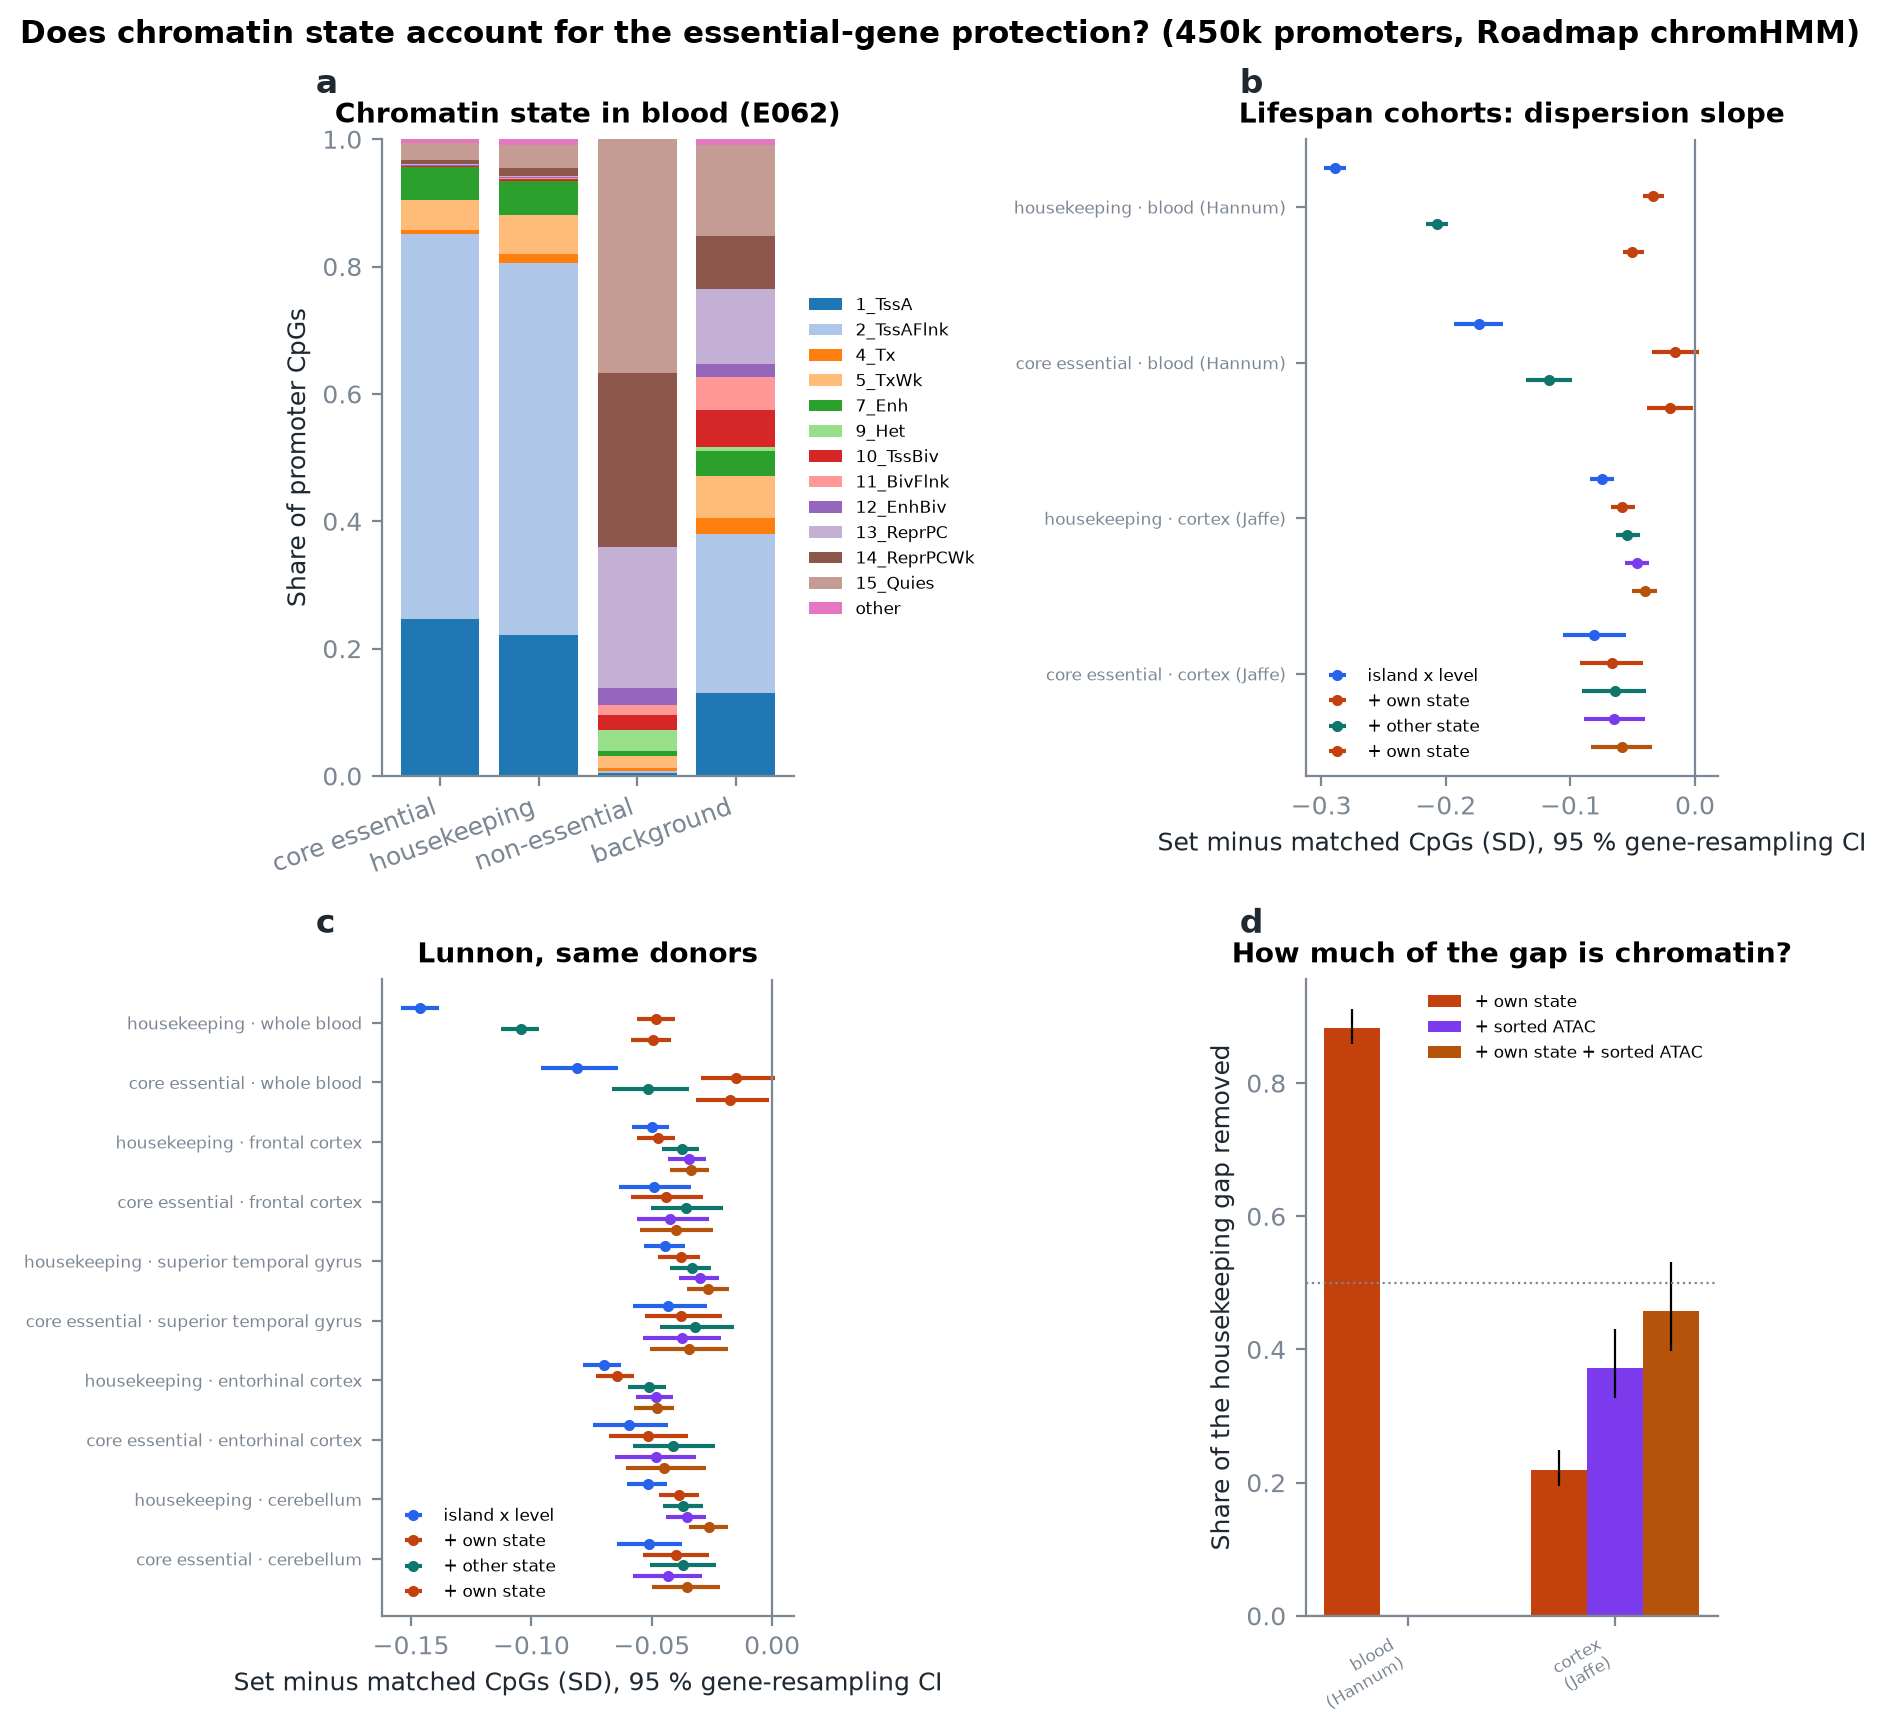
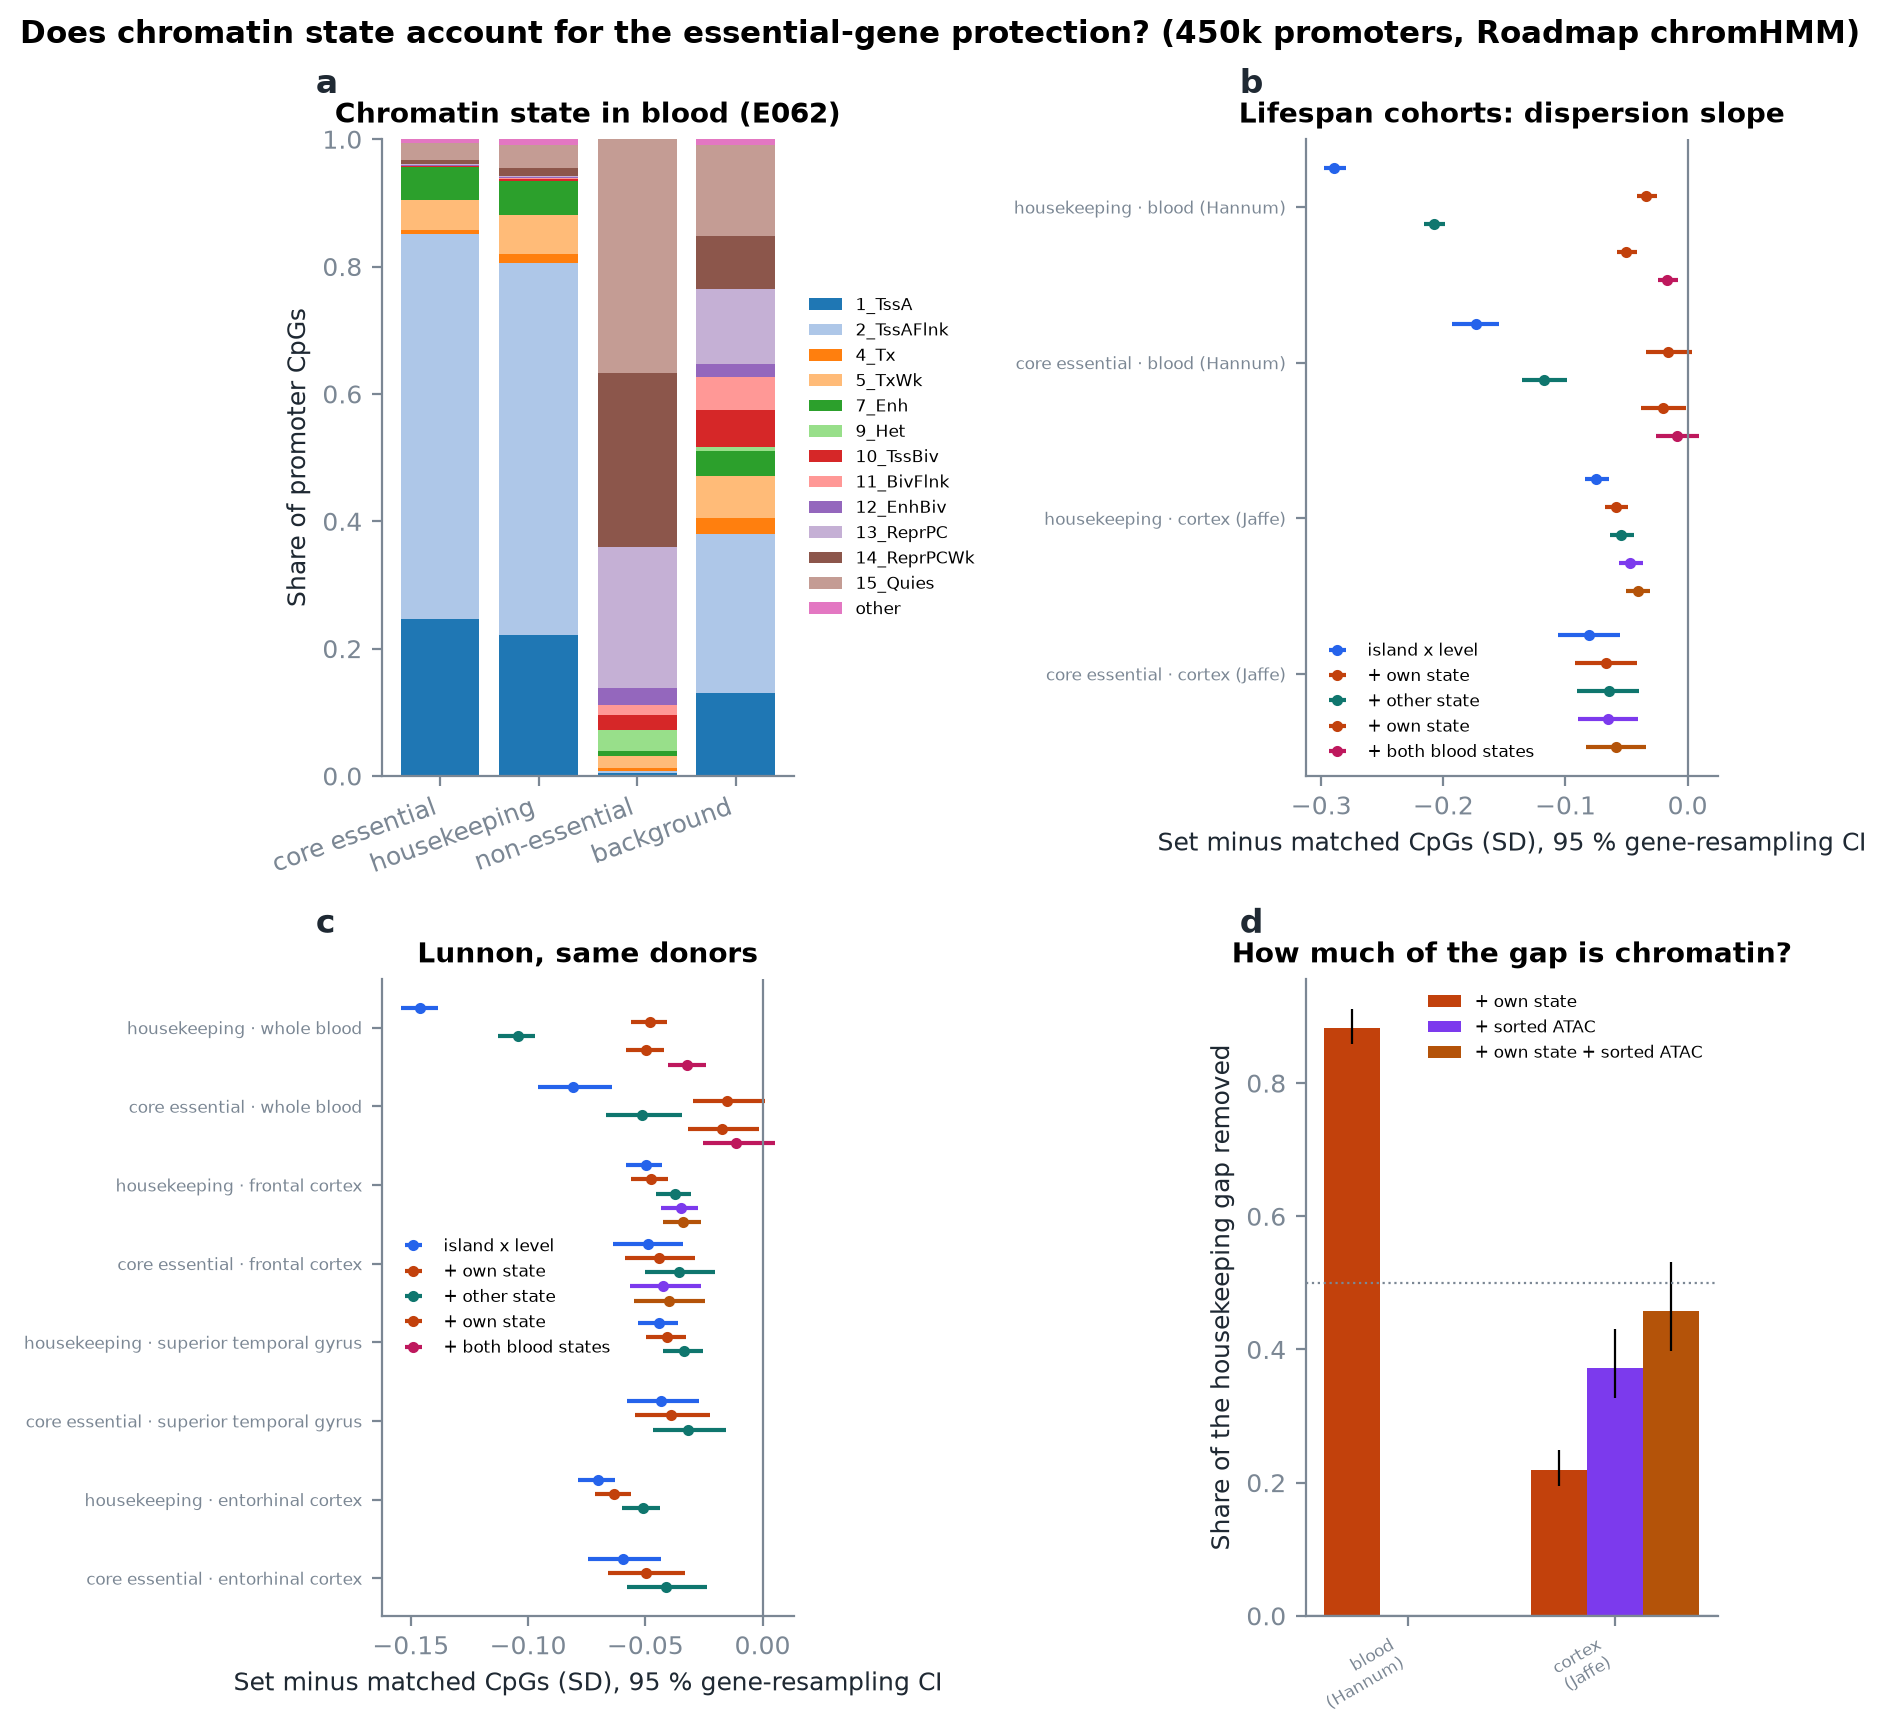
R121: chromatin matching table and figures with both blood maps
Seat: entropy-age/lead

diff --git a/docs/CHANGELOG.md b/docs/CHANGELOG.md
@@ -4,6 +4,7 @@ Newest first.
 
 ## Unreleased
 
+- 2026-11-19: `figures chromatin` rerun with the both-blood-maps matching (R121, job 6538876): table and figure committed; the paper-scale interval of the housekeeping gap with both maps held is -0.013 to +0.001, as written.
 - 2026-11-19: R121 (RM43 item 3): blood analyses with the neutrophil chromatin map (E030) read as with the mononuclear one; with both maps held 96 % of the housekeeping gap is removed. Run log, paper, supplement Note 3, claim C2, roadmap.
 - 2026-11-19: `ENTROPY_AGE_BLOOD_STATE=E030` gives blood its chromatin state from neutrophils in `equilibrium_drift`, `drift_hotspots` and `essentiality_gradient` (outputs end `_e030`); `figures chromatin` adds a matching on both blood maps at once (RM43 item 3). Lint cleared in four files.
 - 2026-11-19: R120 (RM43 item 8): the Tet3 and Tet1 arrays share 150 CpG positions, so no shared-CpG test is possible; on the 314 genes both cover the opposite signs hold (Tet1 F -0.19, Tet3 +0.17 and +0.25). Run log, claims C4, E41, paper, supplement, Table S4; RM43 items 5, 6, 8, 9 marked done.
